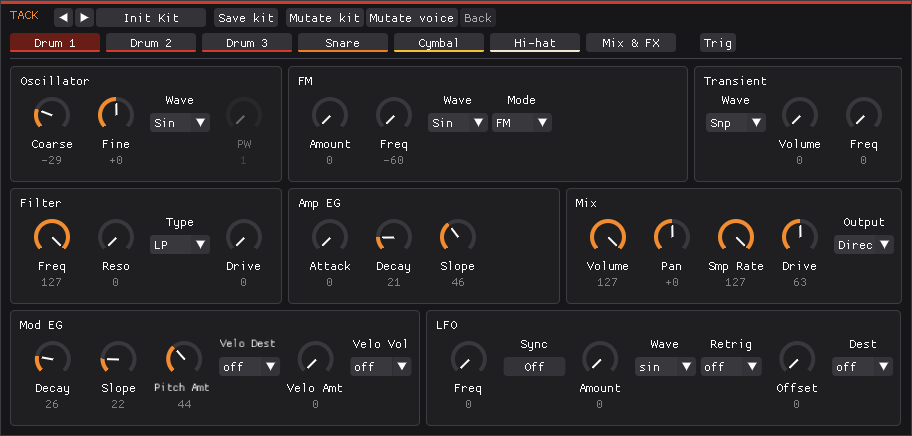
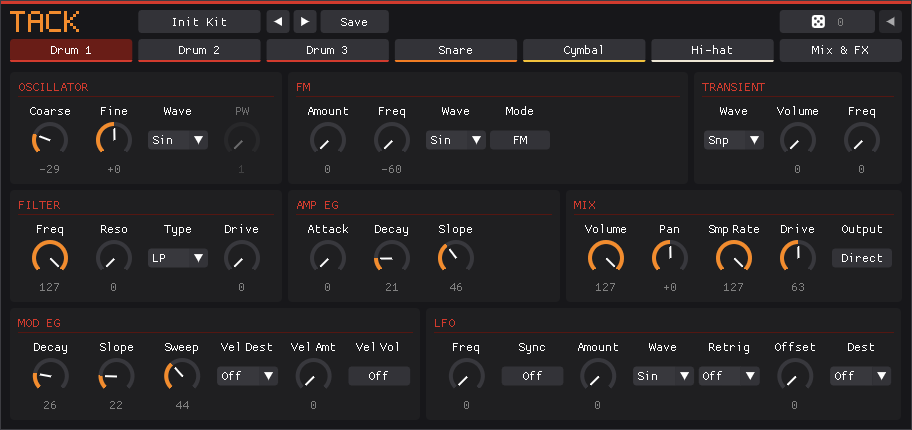
feat(tack): show the plugin's new editor
A new screenshot of the editor, 912 x 430, on the home page, /tack/ and
/tack/plugin/. The text names the Save button and describes Mutate's
die: a click changes the open tab's voice, Shift-click every voice, and
the arrow beside it steps back.

To publish with the Tack release that has this editor.

diff --git a/app/tack/plugin/page.tsx b/app/tack/plugin/page.tsx
@@ -49,8 +49,8 @@ function ManualContent() {
         <div><dt>Linux</dt><dd><code>~/.local/share/Tack/Kits/</code></dd></div>
         <div><dt>macOS and Windows</dt><dd><code>Documents/Tack/Kits</code></dd></div>
       </dl>
-      <p>Save kit writes a <code>.SND</code> file to the User pack. A single-voice plugin saves a kit with only its voice in it, and Tack&apos;s browser marks such files with the kind of voice. Picking one replaces only that voice of the open kit.</p>
-      <p>Mutate kit and Mutate voice make a small random change to the kit or the open tab&apos;s voice, and each click goes on from the last. Back retraces the same steps to where you started. Volume, pan, routing, modulation targets, filter type and the FX stay as they are. A single-voice plugin has one Mutate button.</p>
+      <p>Save writes a <code>.SND</code> file to the User pack. A single-voice plugin saves a kit with only its voice in it, and Tack&apos;s browser marks such files with the kind of voice. Picking one replaces only that voice of the open kit.</p>
+      <p>The die makes a small random change to the open tab&apos;s voice, and Shift-click changes every voice. Each click goes on from the last, and the arrow beside it retraces the same steps to where you started. Volume, pan, routing, modulation targets, filter type and the FX stay as they are. A single-voice plugin&apos;s die changes its voice.</p>
     </section>
     <section>
       <h2>Installing</h2>
@@ -87,7 +87,7 @@ export default function TackPluginPage() {
     links={[{ label: 'Download', href: `${tackRepo}/releases/latest`, primary: true }, { label: 'Source on GitHub', href: tackRepo }]}
     line="A digital drum synth for your DAW."
     description="Seven synthesised drum voices with 227 parameters to automate, seven stereo outputs, and an editor. CLAP, VST3 and Audio Unit."
-    screenshot={{ darkSrc: '/images/tack-plugin-editor.png', brightSrc: '/images/tack-plugin-editor.png', darkWidth: 912, darkHeight: 436, brightWidth: 912, brightHeight: 436, alt: 'The Tack editor: a tab per voice, with boxes of dials for the oscillator, FM, transient, filter, envelopes, mix and LFO.', wide: true }}
+    screenshot={{ darkSrc: '/images/tack-plugin-editor.png', brightSrc: '/images/tack-plugin-editor.png', darkWidth: 912, darkHeight: 430, brightWidth: 912, brightHeight: 430, alt: 'The Tack editor: a tab per voice, with boxes of dials for the oscillator, FM, transient, filter, envelopes, mix and LFO.', wide: true }}
     startHere={<StartContent />}
     manual={<ManualContent />}
     manualDescription="The plugins, kits, installing and building from source."

diff --git a/app/tack/page.tsx b/app/tack/page.tsx
@@ -29,7 +29,7 @@ export default function TackOverview() {
         <p className="oikontrol-requirements">Tack is not affiliated with or endorsed by Erica Synths, Sonic Potions or M-VAVE.</p>
       </div>
       <figure className="tack-hero" aria-label="Tack as a plugin and on the FM-1">
-        <img className="tack-hero-plugin" src={`${base}/images/tack-plugin-editor.png`} width={912} height={436} alt="The Tack plugin's editor: a tab per voice, with boxes of dials for the oscillator, FM, transient, filter, envelopes, mix and LFO." />
+        <img className="tack-hero-plugin" src={`${base}/images/tack-plugin-editor.png`} width={912} height={430} alt="The Tack plugin's editor: a tab per voice, with boxes of dials for the oscillator, FM, transient, filter, envelopes, mix and LFO." />
         <img src={`${base}/images/tack-overview.png`} width={720} height={720} alt="Tack on the FM-1's screen, HOME: seven lanes of steps, with pitch, filter, decay and volume below." />
         <img src={`${base}/images/tack-note.png`} width={720} height={720} alt="Tack on the FM-1's screen, NOTE: each step's note as a mark, with its velocity as a grey bar behind it." />
       </figure>
@@ -62,7 +62,7 @@ export default function TackOverview() {
         <h2>One kit format</h2>
       </div>
       <div>
-        <p>Both forms read <code>.SND</code> kit files, the format an LXR-02 writes to its SD card. The plugin&apos;s Save kit button writes that format too, so you can shape a kit at the computer and send it to the FM-1. No kits come with Tack, because kits belong to the people who made them.</p>
+        <p>Both forms read <code>.SND</code> kit files, the format an LXR-02 writes to its SD card. The plugin&apos;s Save button writes that format too, so you can shape a kit at the computer and send it to the FM-1. No kits come with Tack, because kits belong to the people who made them.</p>
       </div>
     </section>
     <footer><p>OIKO AUDIO</p><p>Oiko Audio is a brand of Octofox Ltd.</p><p><a href="https://github.com/oikoaudio">Open source on GitHub ↗</a></p></footer>

diff --git a/app/page.tsx b/app/page.tsx
@@ -124,7 +124,7 @@ export default function Home() {
           </div>
           <figure className="product-shot tack-shot">
             {/* eslint-disable-next-line @next/next/no-img-element */}
-            <div className="tack-hero"><img className="tack-hero-plugin" src={`${basePath}/images/tack-plugin-editor.png`} width={912} height={436} alt="The Tack plugin's editor: a tab per voice, with boxes of dials for the oscillator, FM, transient, filter, envelopes, mix and LFO." />
+            <div className="tack-hero"><img className="tack-hero-plugin" src={`${basePath}/images/tack-plugin-editor.png`} width={912} height={430} alt="The Tack plugin's editor: a tab per voice, with boxes of dials for the oscillator, FM, transient, filter, envelopes, mix and LFO." />
               {/* eslint-disable-next-line @next/next/no-img-element */}
               <img src={`${basePath}/images/tack-overview.png`} width={720} height={720} alt="Tack on the FM-1's screen, HOME: seven lanes of steps, with pitch, filter, decay and volume below." />
               {/* eslint-disable-next-line @next/next/no-img-element */}
